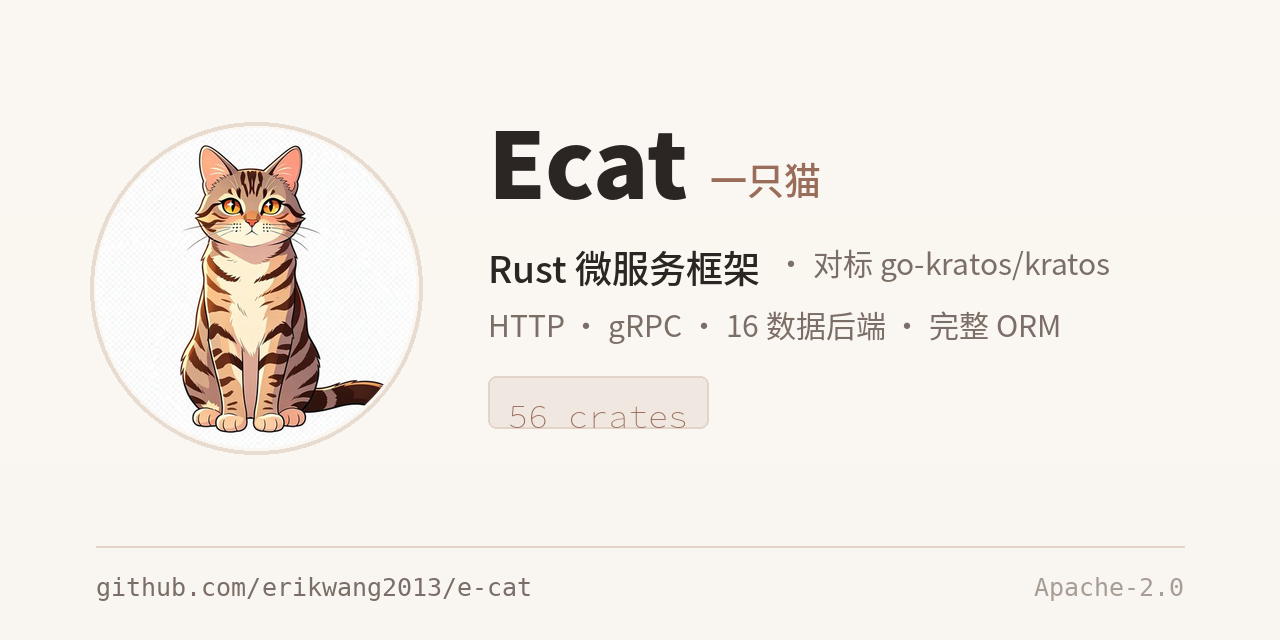
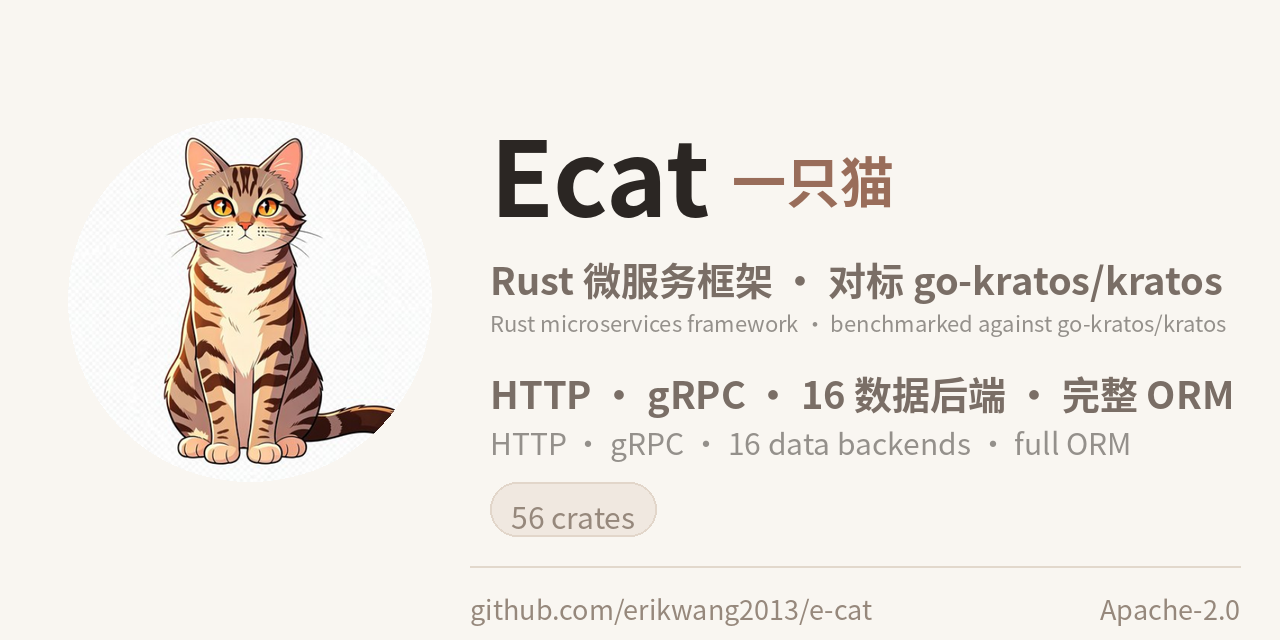
docs(social): Social Preview 改中英双语 + 附生成脚本
- 中文行下并列对应的英文行（同一字体 Noto Sans CJK SC，双语字形统一）
- 猫改用圆形蒙版（上一版是方形贴图，对角线大于圆 ⇒ 四角外露）
- 配色沿用原版（背景 #F9F6F1、标题 #2B2623、强调 #996D5A）
- 附 scripts/mk-social-preview.py：上次那张没留脚本，改数字时要反推设计

diff --git a/scripts/mk-social-preview.py b/scripts/mk-social-preview.py
@@ -1,0 +1,108 @@
+#!/usr/bin/env python3
+"""生成 e-cat 的 GitHub Social Preview（1280×640，中英双语）。
+
+配色取自上一版（保持视觉一致）；字体用 Noto Sans CJK SC —— 一个字体覆盖中英，
+双语排版不会出现字形不匹配。
+"""
+import subprocess
+from PIL import Image, ImageDraw, ImageFont
+
+W, H = 1280, 640
+BG = (249, 246, 241)
+INK = (43, 38, 35)          # 标题
+ACCENT = (153, 109, 90)     # 「一只猫」/ 强调
+ZH = (122, 110, 102)        # 中文行
+EN = (148, 144, 139)        # 英文行（更弱的灰）
+BADGE_BG = (240, 232, 224)
+BADGE_BD = (226, 214, 202)
+CIRCLE_BG = (250, 250, 250)   # 与猫图自身底色一致 ⇒ 方边不可见
+CIRCLE_BD = (232, 222, 210)
+
+FONT_BOLD = "/usr/share/fonts/opentype/noto/NotoSansCJK-Bold.ttc"
+FONT_REG = "/usr/share/fonts/opentype/noto/NotoSansCJK-Regular.ttc"
+SC = 2  # .ttc 里 index 2 = Noto Sans CJK SC
+
+
+def font(path, size):
+    return ImageFont.truetype(path, size, index=SC)
+
+
+def fit(draw, text, path, start, max_w):
+    """从 start 号开始逐号缩小，直到文本宽度 <= max_w。"""
+    size = start
+    while size > 12:
+        f = font(path, size)
+        if draw.textlength(text, font=f) <= max_w:
+            return f
+        size -= 1
+    return font(path, 12)
+
+
+im = Image.new("RGB", (W, H), BG)
+d = ImageDraw.Draw(im)
+
+# ── 左侧：猫（从 SVG 渲染）────────────────────────────────────────────
+subprocess.run(
+    ["rsvg-convert", "-w", "520", "-h", "520", "-o", "/tmp/cat.png", "docs/e-cat.svg"],
+    check=True,
+)
+cat = Image.open("/tmp/cat.png").convert("RGBA")
+
+CX, CY, R = 250, 300, 172
+d.ellipse([CX - R, CY - R, CX + R, CY + R], fill=CIRCLE_BG, outline=CIRCLE_BD, width=3)
+# 把猫缩到圆内并居中贴上去（保留透明通道）
+# 缩到略大于圆（让猫填满圆窗、边缘不外露），再用**圆形蒙版**裁掉方角
+scale = (2 * R * 1.06) / max(cat.size)
+cat_s = cat.resize((int(cat.width * scale), int(cat.height * scale)), Image.LANCZOS)
+mask = Image.new("L", cat_s.size, 0)
+ImageDraw.Draw(mask).ellipse([0, 0, cat_s.width - 1, cat_s.height - 1], fill=255)
+im.paste(cat_s, (CX - cat_s.width // 2, CY - cat_s.height // 2), mask)
+
+# ── 右侧：文字 ───────────────────────────────────────────────────────
+X = 490
+MAXW = W - X - 46
+
+# 标题：Ecat 一只猫
+f_title = font(FONT_BOLD, 104)
+d.text((X, 96), "Ecat", font=f_title, fill=INK)
+x2 = X + d.textlength("Ecat", font=f_title) + 22
+f_zh_title = font(FONT_BOLD, 54)
+d.text((x2, 96 + (104 - 54) - 6), "一只猫", font=f_zh_title, fill=ACCENT)
+
+y = 250
+LINE_GAP_ZH = 56
+LINE_GAP_EN = 40
+
+pairs = [
+    ("Rust 微服务框架 · 对标 go-kratos/kratos",
+     "Rust microservices framework · benchmarked against go-kratos/kratos"),
+    ("HTTP · gRPC · 16 数据后端 · 完整 ORM",
+     "HTTP · gRPC · 16 data backends · full ORM"),
+]
+
+for zh, en in pairs:
+    d.text((X, y), zh, font=fit(d, zh, FONT_BOLD, 38, MAXW), fill=ZH)
+    y += LINE_GAP_ZH
+    d.text((X, y), en, font=fit(d, en, FONT_REG, 30, MAXW), fill=EN)
+    y += LINE_GAP_EN + 18
+
+# 徽章：56 crates
+f_badge = font(FONT_REG, 30)
+btext = "56 crates"
+tw = d.textlength(btext, font=f_badge)
+bx, by = X, y + 4
+d.rounded_rectangle([bx, by, bx + tw + 42, by + 54], radius=27,
+                    fill=BADGE_BG, outline=BADGE_BD, width=2)
+d.text((bx + 21, by + 12), btext, font=f_badge, fill=(150, 136, 124))
+
+# ── 页脚 ─────────────────────────────────────────────────────────────
+FY = 566
+d.line([(X - 20, FY), (W - 40, FY)], fill=(226, 216, 204), width=2)
+f_foot = font(FONT_REG, 27)
+d.text((X - 20, FY + 22), "github.com/erikwang2013/e-cat", font=f_foot, fill=(150, 136, 124))
+right = "Apache-2.0"
+d.text((W - 40 - d.textlength(right, font=f_foot), FY + 22), right,
+       font=f_foot, fill=(150, 136, 124))
+
+im.save("docs/social-preview.png", optimize=True)
+print("✅ docs/social-preview.png", im.size)
